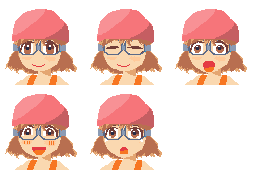
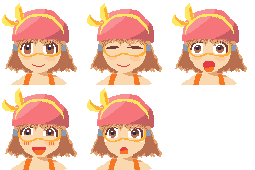
Replaced face and bike dot arts.

diff --git a/motorcycle/game.py b/motorcycle/game.py
@@ -49,7 +49,7 @@ class GameGround:
 
 class App:
     BikeBodyImagePath = 'images/bike_body.png'
-    WheelImagePath = 'images/wheel.png'
+    TireImagePath = 'images/tire.png'
     CharaBodyImagePath = 'images/chara_body.png'
     FacesImagePath = 'images/faces.png'
     TitleImagePath = 'images/title.png'
@@ -61,7 +61,7 @@ class App:
                    fps = g_world.fps)
         self.color_palette = ColorPalette(
             [self.BikeBodyImagePath,
-             self.WheelImagePath,
+             self.TireImagePath,
              self.CharaBodyImagePath],
             [self.FacesImagePath,
              self.TitleImagePath])
@@ -70,11 +70,11 @@ class App:
         self.game_result = GameResult(image_index = 2)
         self.bike = GameBike(
             self.BikeBodyImagePath,
-            self.WheelImagePath,
+            self.TireImagePath,
             self.CharaBodyImagePath)
         self.bike_rival = GameBike(
             self.BikeBodyImagePath,
-            self.WheelImagePath,
+            self.TireImagePath,
             self.CharaBodyImagePath,
             self.color_palette.gray_converter())
         self.ground = GameGround()

diff --git a/motorcycle/game_bike.py b/motorcycle/game_bike.py
@@ -30,7 +30,7 @@ class GameBike:
         self.chara_body_image = self.clip_image(self.load(chara_body_path))
 
     def load(self, path):
-        image = pyxel.Image(256, 256)
+        image = pyxel.Image(256, 320)
         image.load(0, 0, path)
         return image
 
@@ -42,10 +42,10 @@ class GameBike:
         self.chara_body_range_1 = Range2(0, h, w, h)
         self.chara_body_range_steer = Range2(0, h * 2, w, h)
         self.chara_body_range_cry = Range2(0, h * 3, w, h)
-        r = BikeSpriteHeight // 4
-        self.tire_range = Range2(0, r * 2, r * 2, r * 2)
-        self.front_tire_center = Vec2(w / 2 - r, r)
-        self.rear_tire_center = Vec2(-w / 2 + r, r)
+        r = BikeSpriteWidth // 6
+        self.tire_range = Range2(0, r * 3, r * 2, r * 2)
+        self.front_tire_center = Vec2(w / 2 - r, r * 1.5)
+        self.rear_tire_center = Vec2(-w / 2 + r, r * 1.5)
 
     def clip_image(self, image, range = None):
         util = ImageUtils(image, range)

diff --git a/motorcycle/world.py b/motorcycle/world.py
@@ -4,7 +4,7 @@ from utilities import *
 
 BikeWorldLen = 1.5 # [m]
 BikeSpriteWidth = 96 # [pixel]
-BikeSpriteHeight = 64 # [pixel]
+BikeSpriteHeight = 80 # [pixel]
 
 class World:
     Version = "1.01"
@@ -18,7 +18,7 @@ class World:
         self.fps = 30
         self.bg_index = 0
         self.origin_world = Vec2(0.0, 0.0)
-        self.origin_screen = Vec2(self.screen_size.x * 0.4,
+        self.origin_screen = Vec2(self.screen_size.x * 0.3,
                                   self.screen_size.y * 0.9)
         self.rival_diff = -30
         self.stage_index = 0
